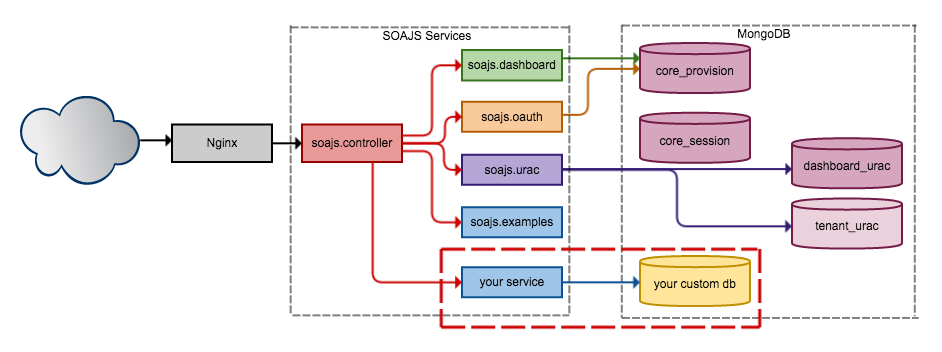
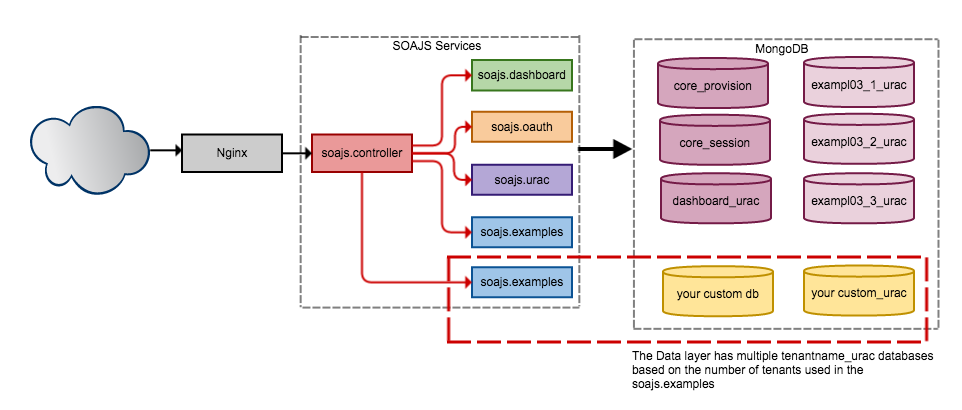
updated all in one documentation and images.

Changed region(s): [[0.0, 0.0625, 0.9851, 0.9688]]

diff --git a/sections/documentation/deployment/all-in-one.html b/sections/documentation/deployment/all-in-one.html
@@ -2,11 +2,8 @@
 <h1>All In One</h1>
 <div class="white-container">
 	<p>
-		In <a href="#/documentation/deployment/overview">Overview</a> we showed the below diagram and mentioned the technologies needed to get SOAJS up and running on either one machine or a cloud. In this Section we will demonstrate how to install SOAJS and these technologies as well as how to configure them all on one machine thus the term <b>All In One</b>.<br />
-		<img ng-src="images/documentation/deployment-aio.png" class="img-margin-t-b" /><br /><br />
-		SOAJS is designed to work in a cloud environment meaning its services should be spread on different nodes. Installing everything on one machine is considered best practice in the case of a development environment so that the developer can work in one place.<br />
-		When deploying SOAJS on one machine, The controller, oauth, dashboard and urac services are common. The Urac will have at least 2 tenants; one tenant provides access to the dashboard service to manage the core database content and the other tenants will be specific to the services they have access to such as example 03 and example 04.<br />
-		Another important common feature is that both CORE_PROVISION and CORE_SESSION are also common but dashboard_urac and tenantname_urac database are separate where dashboard_urac contains user records that can access the database service to manage it and tenantname_urac contains user records for other services.
+		All in one means deploying everything on a single machine. This is ideal to create a SOAJS development environment. The below illustrates how to create an all in one deployment. When deploying SOAJS on one machine some services and databases will be shared.<br />
+		<img ng-src="images/documentation/deployment-aio.png" class="img-margin-t-b" />
 	</p>
 	<br/>
 	<hr/>
@@ -54,9 +51,6 @@ $ npm install soajs.oauth
 
 #install the sample data
 $ npm install soajs.mongodb.data
-
-# go up one folder, back to /op/soajs/
-$ cd /opt/soajs/
 
 #install the examples
 $ npm install soajs.examples
@@ -181,7 +175,7 @@ $ cd /opt/soajs/node_modules/soajs.dashboard/service
 $ node .
 
 #navigate to soajs.examples and start the examples
-$ cd /opt/soajs/soajs.examples/
+$ cd /opt/soajs/node_modules/soajs.examples/
 $ cd /example01
 $ node .
 $ cd /example02
@@ -234,6 +228,9 @@ $ curl -X GET "http://127.0.0.1:5013/heartbeat"
 		SOAJS is now running with all its services on your machine, you can begin creating your services just like the examples are built. Create a folder for every service next to soajs.examples and add your code there. Check how to <a href="#/documenation/core/service">Create a service</a> in the documentation section and you can read more about the examples under <a href="#/getStarted">Get Started</a>.<br /><br />
 		Whenever you finish a service simply run it and because you have to add an entry for it in the registry, execute the maintenance operation <b>reloadRegistry</b> just like you did for <b>heartbeat</b> above in the controller. The controller will reload the registry that contains your new service information and you service will be automatically detected and accessible via the controller.
 		<pre><code class="bash">$ curl -X GET "http://127.0.0.1:5000/reloadRegistry"</code></pre>
+		If your service also has provisioned information, like Example 02,03 and 04, you need to execute a second maintenance operation to load the new provisioned information.
+		<pre><code class="bash">$ curl -X GET "http://127.0.0.1:5000/loadProvision"</code></pre>
+		Both maintenance operations have to be executed on the maintenance port of the controller, so that it can pick up the new configuration and direct the request that will be made to your service.
 		<img ng-src="images/documentation/deployment-aio2.png" class="img-margin-t-b" />
 	</p>
 </div>
